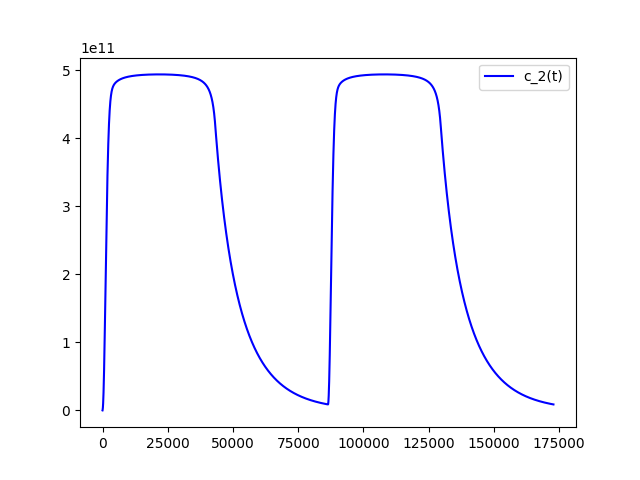
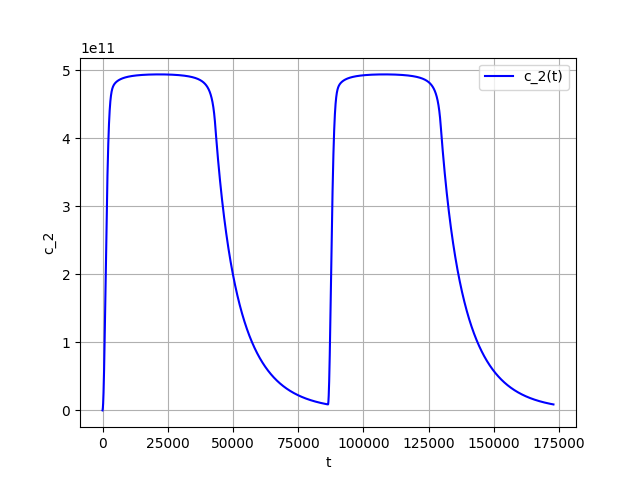
final commit

diff --git a/lab1_2024/main2.py b/lab1_2024/main2.py
@@ -59,24 +59,40 @@ def first_step(k : int, delta_t : float, real_t : float, net : list[float]) -> l
 
 
 def draw_graph_c1(c_1_x : list[float], net : list[float]):
-  plt.plot(net, c_1_x, color = "blue", label = "c_1(t)")
+  plt.plot(net, c_1_x, color = "blue", label = r"c_1(t)")
 
+
+  plt.xlabel("t")
+  plt.ylabel(r'c_1')
+
+  plt.grid()
   plt.legend()
   plt.show()
-
 def draw_graph_c2(c_1_x : list[float], net : list[float]):
-  plt.plot(net, c_1_x, color = "blue", label = "c_2(t)")
+  plt.plot(net, c_1_x, color = "blue", label = r"c_2(t)")
 
+  plt.xlabel("t")
+  plt.ylabel(r'c_2')
+
+  plt.grid()
   plt.legend()
   plt.show()
 def draw_graph_c3(c_1_x : list[float], net : list[float]):
-  plt.plot(net, c_1_x, color = "blue", label = "c_3(t)")
+  plt.plot(net, c_1_x, color = "blue", label = r'c_3(t)')
 
+  plt.xlabel("t")
+  plt.ylabel(r'c_3')
+
+  plt.grid()
   plt.legend()
   plt.show()
 def draw_graph_c4(c_1_x : list[float], net : list[float]):
-  plt.plot(net, c_1_x, color = "blue", label = "c_4(t)")
+  plt.plot(net, c_1_x, color = "blue", label = r'c_4(t)')
 
+  plt.xlabel("t")
+  plt.ylabel(r'c_4')
+  
+  plt.grid()
   plt.legend()
   plt.show()
 def net_generate(real_t : float) -> list[float]:
@@ -122,6 +138,7 @@ def main():
   solve_eq(real_t, net, ptr)
   print(c_1_real, c_2_real, c_3_real, c_4_real)
   print(net)
+
   draw_graph_c1(c_1_real, net)
   draw_graph_c2(c_2_real, net)
   draw_graph_c3(c_3_real, net)

diff --git a/lab1_2024/main1.py b/lab1_2024/main1.py
@@ -53,13 +53,14 @@ def draw_graph(u_real : list[float], v_real : list[float], net : list[float]):
   plt.legend()
   plt.show()
 def draw_error(u_tmp : list[float], v_tmp : list[float], delta_t : list[float]):
-  plt.plot(delta_t, u_tmp, color = "blue", label = "||u(T) - u(0)||")
-  plt.plot(delta_t, v_tmp, color = "red", label = "||v(T) - v(0)||")
-
+  plt.plot(delta_t, u_tmp, color = "blue", label = r'$ ||u(T) - u(0)|| $')
+  plt.plot(delta_t, v_tmp, color = "red", label =  r'$ ||v(T) - v(0)|| $')
+  plt.title("iter_num = 10000")
   plt.legend()
+  plt.grid(True)
 
-  plt.xlabel("\Delta t")
-  plt.ylabel("\Psi (x)")
+  plt.xlabel(r'$ \Delta $t')
+  plt.ylabel(r'$ error $')
   
   plt.show()
 
@@ -81,11 +82,9 @@ def main():
 
     net = net_func(delta_t[m])
     print(len(u_real), len(v_real), len(net))
-    draw_graph(u_real, v_real, net)
     u_real = [1]
     v_real = [0]
   draw_error(u_tmp, v_tmp, delta_t)
 
 if __name__ == "__main__":
   main()
-
